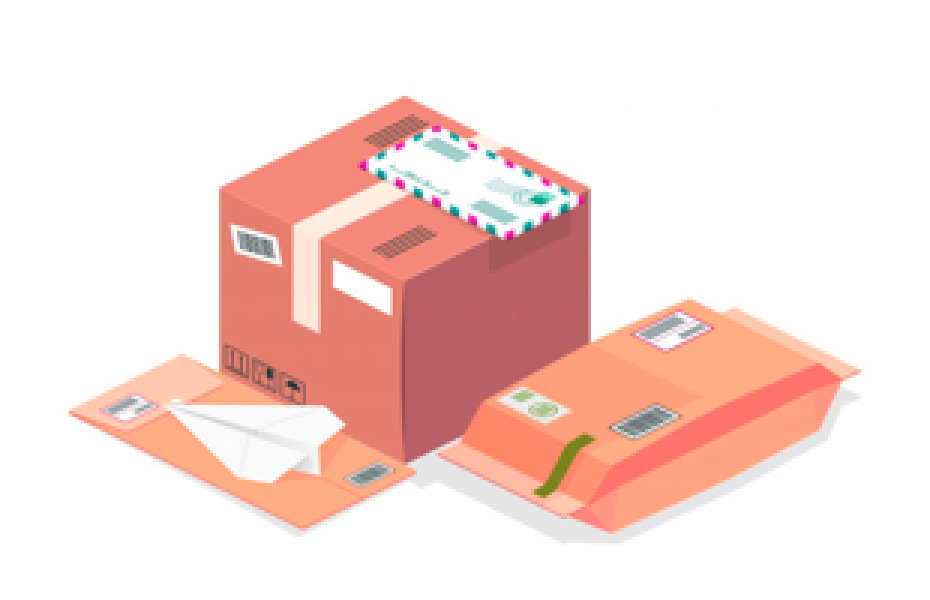
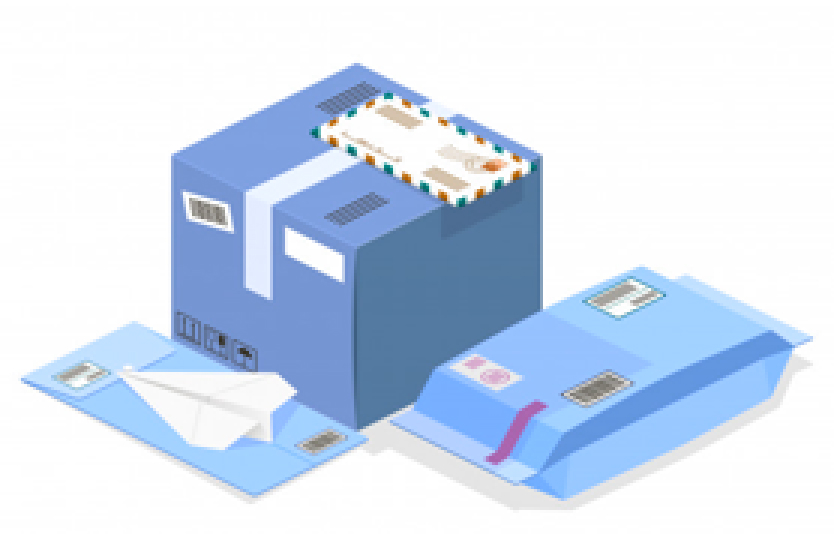
feature: changes images and styles for main features, and index.html

diff --git a/src/index.html b/src/index.html
@@ -59,7 +59,7 @@
 
   <!-- Product-cards -->
   <div class="uk-container bg-full-width uk-padding-large-top@l uk-padding-top@s">
-    <h2 class="title title--small uk-margin-small-bottom">Продажа Xiaomi с доставкой по всей територии РФ</h2>
+    <h2 class="title title--small uk-margin-small-bottom">Продажа Samsung с доставкой по всей територии РФ</h2>
     <p class="uk-margin-bottom">Популярные модели по лучшим ценам</p>
     <ul class="uk-grid-small uk-child-width-1-1 uk-child-width-1-2@s uk-child-width-1-3@m uk-child-width-1-4@l" uk-grid>
       <li>
@@ -287,7 +287,7 @@
       <h2 class="title title--small">Новинки</h2>
       <a href="#" class="link-see-all">
         Показать все
-        <svg width="18" height="18" fill="#FF6B2C">
+        <svg width="18" height="18" fill="#0095FF">
           <use xlink:href="img/symbol/sprite.svg#arrow-see-all" />
         </svg>
       </a>
@@ -403,7 +403,7 @@
       <h2 class="title title--small">Аксессуары</h2>
       <a href="#" class="link-see-all">
         Показать все
-        <svg width="18" height="18" fill="#FF6B2C">
+        <svg width="18" height="18" fill="#0095FF">
           <use xlink:href="img/symbol/sprite.svg#arrow-see-all" />
         </svg>
       </a>

diff --git a/src/sass/utilities/_variables.scss b/src/sass/utilities/_variables.scss
@@ -105,7 +105,6 @@ $main-dark-color: rgba(0, 194, 255, 1);
 $main-dark-color-opacity-7: rgba(0, 194, 255, .7);
 $main-dark-color-opacity-5: rgba(0, 194, 255, .5);
 $main-dark-color-opacity-4: rgba(0, 194, 255, .4);
-$main-dark-color-2: rgba(214, 52, 105, 1);
 
 $second-color: rgba(99, 68, 182, 1);
 $second-dark-color: rgba(103, 60, 221, 1);
@@ -114,7 +113,6 @@ $second-color-opacity-7: rgba(107, 72, 169, .7);
 
 $third-color: rgba(44, 9, 82, 1);
 $thirs-color-2: rgba(28, 4, 58, 1);
-$dark-blue: rgba(17, 20, 72, 1);
 $yellow: rgba(255, 205, 0, 1);
 $yellow-2: rgba(255, 211, 122, 1);
 $green: rgba(39, 204, 0, 1);
@@ -128,6 +126,8 @@ $green-5: rgba(75, 217, 100, 1);
 $orange: rgba(255, 121, 20, 1);
 $orange-2: rgba(255, 150, 0, 1);
 $blue: rgba(0, 149, 255, 1);
+$dark-blue: rgba(17, 20, 72, 1);
+$dark-blue-2-opaicty-1: rgba(20, 40, 160, .1);
 $violet: rgba(95, 24, 208, 1);
 
 $gradient-pink: linear-gradient(250.77deg, rgba(237, 101, 108, 1) 0%, rgba(223, 92, 145, 1) 99.52%);

diff --git a/src/sass/components/_btn.scss b/src/sass/components/_btn.scss
@@ -4,13 +4,13 @@
 	text-align: center;
 	font-family: FuturaPT;
 	color: $white;
-	background-color: $green;
+	background-color: $main-color;
 	border-radius: 8px;
 	transition: background-color .3s, box-shadow .3s, color .1s;
 	overflow: hidden;
 
 	&:hover {
-		background-color: $green-2;
-		box-shadow: 0px 6px 30px $green-opacity-35;
+		background-color: $main-dark-color;
+		box-shadow: 0px 6px 30px $main-dark-color-opacity-4;
 	}
 }

diff --git a/src/sass/components/_product-card.scss b/src/sass/components/_product-card.scss
@@ -57,7 +57,7 @@
         padding: 4px 5px;
         font: 600 12px/14px FuturaPT;
         color: $main-color;
-        background-color: $main-color-opacity-2;
+        background-color: $dark-blue-2-opaicty-1;
         border-radius: 13px;
       }
 

diff --git a/src/sass/layout/_main-features.scss b/src/sass/layout/_main-features.scss
@@ -1,5 +1,5 @@
 .main-features {
-  background-color: $gray-dark;
+  background-color: $gray-32;
 
   .title {
     color: $white;
